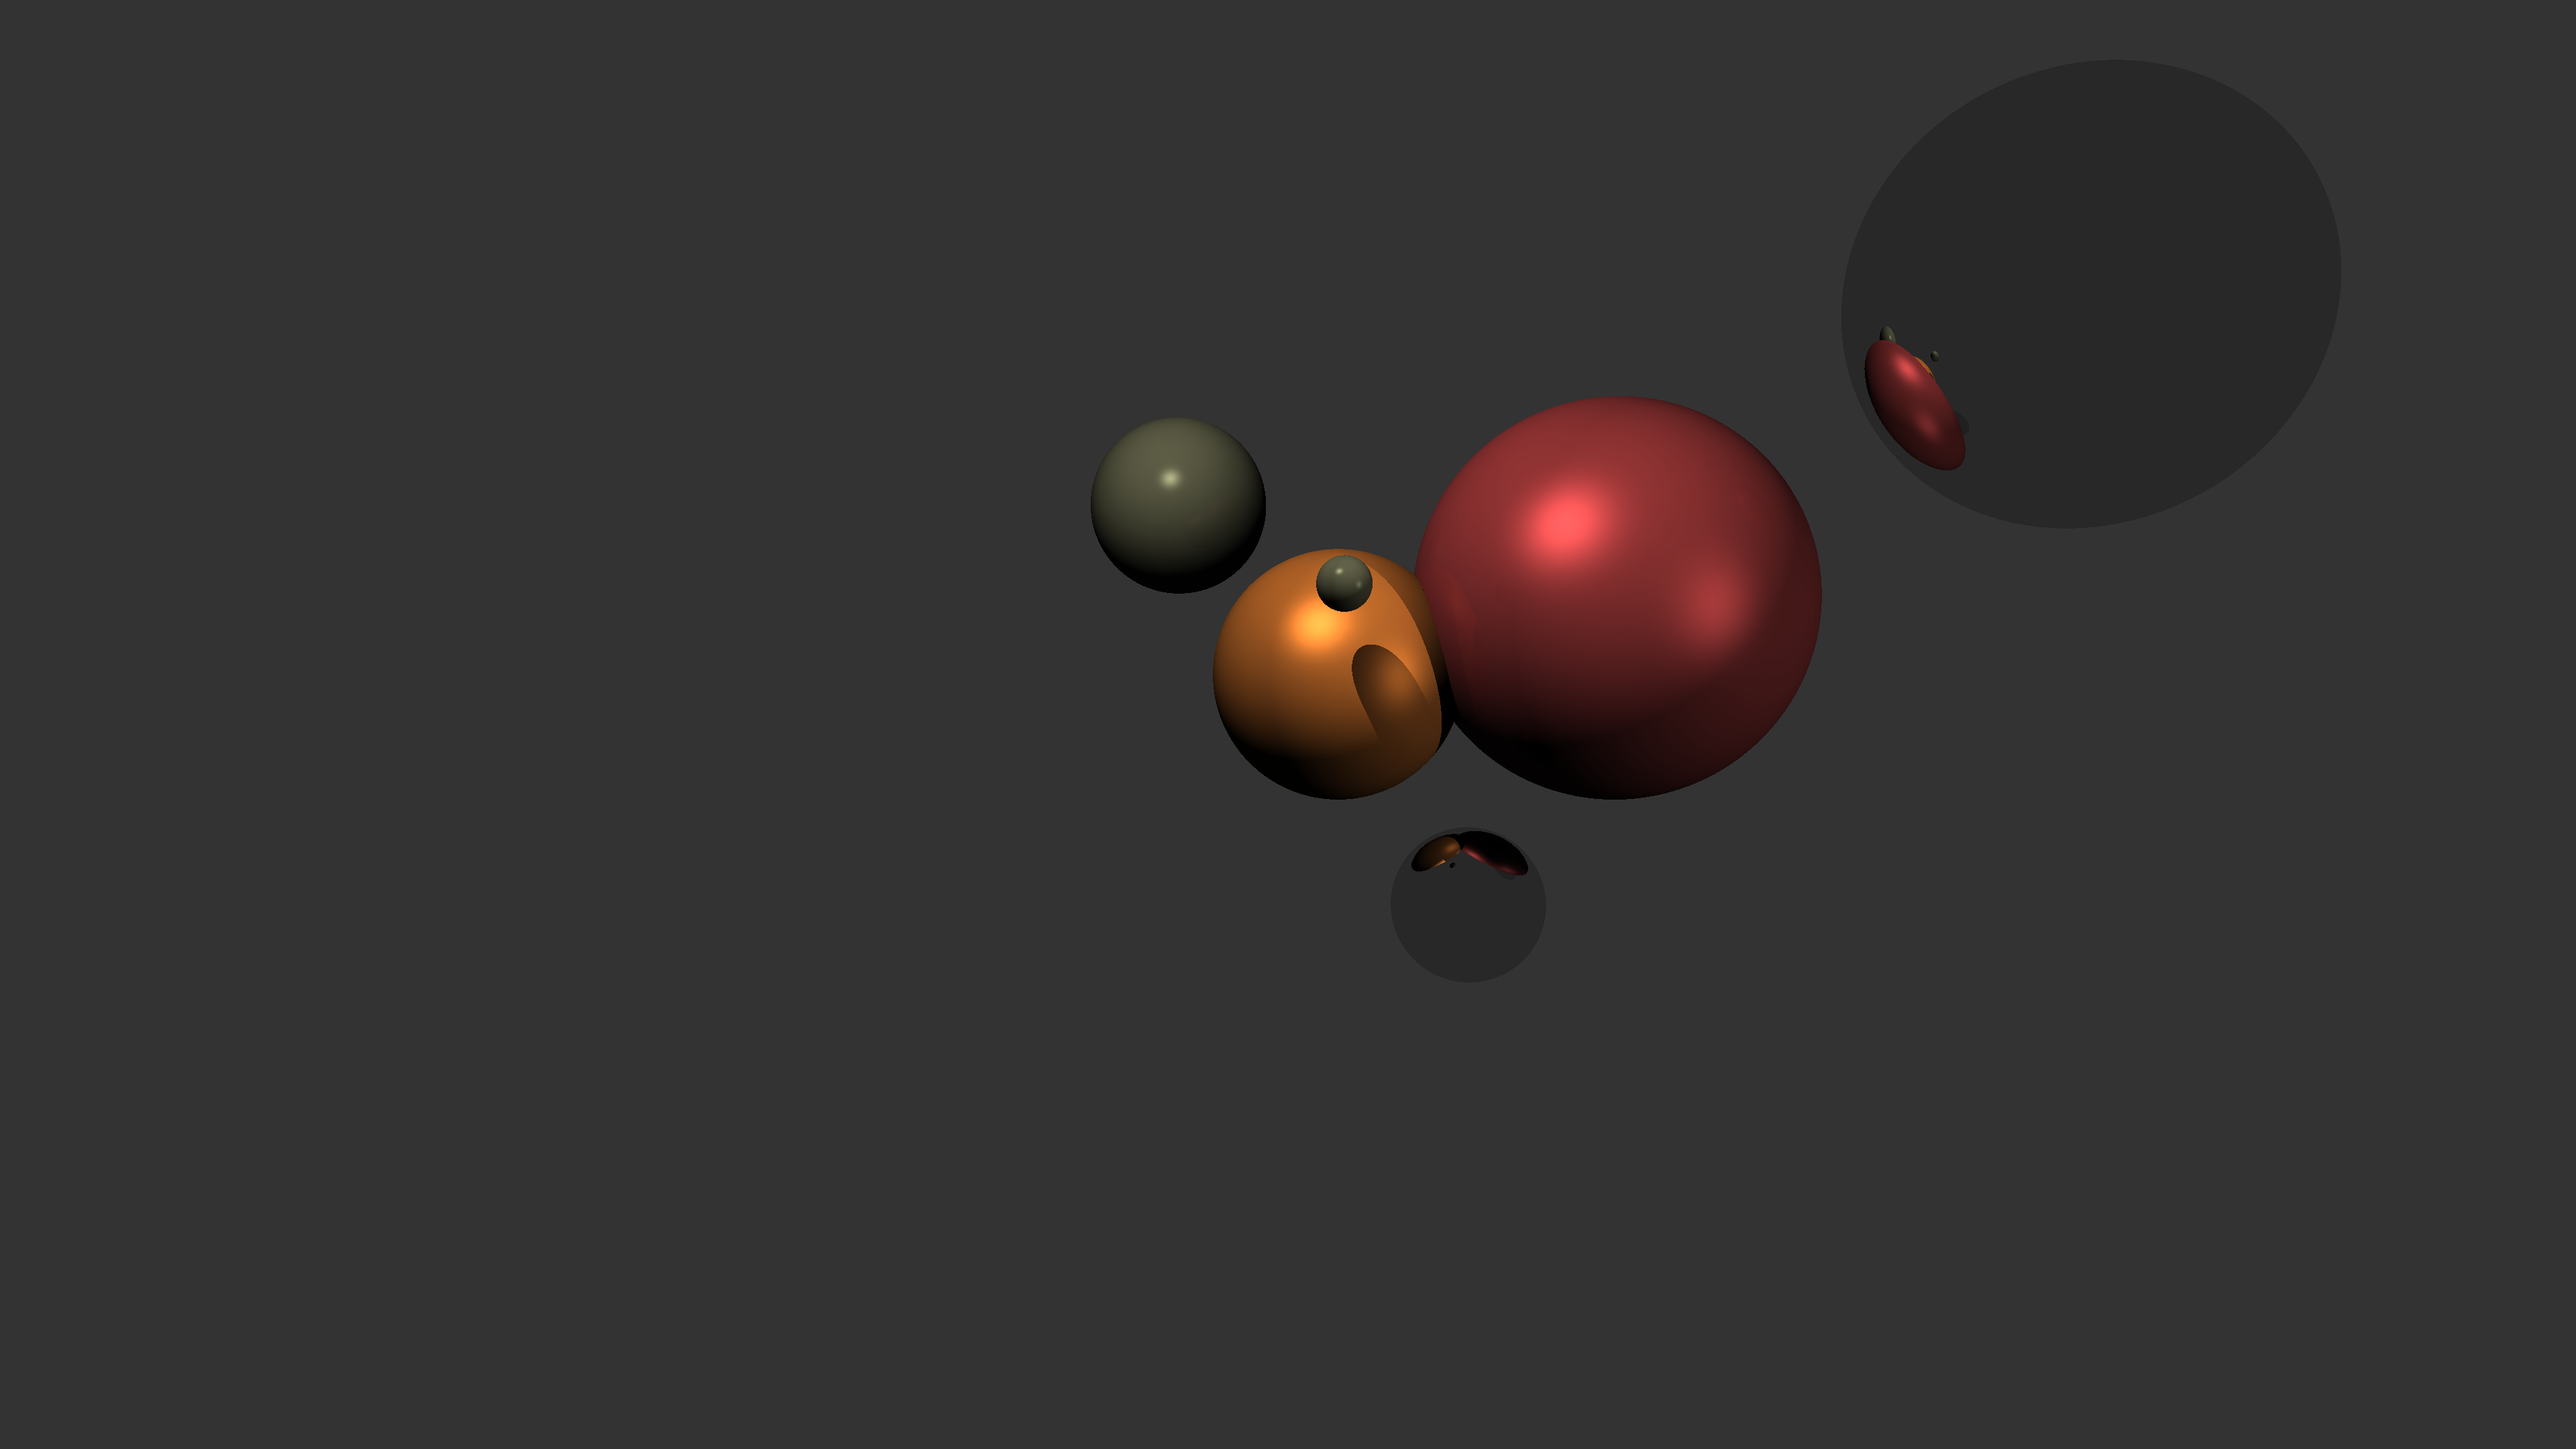
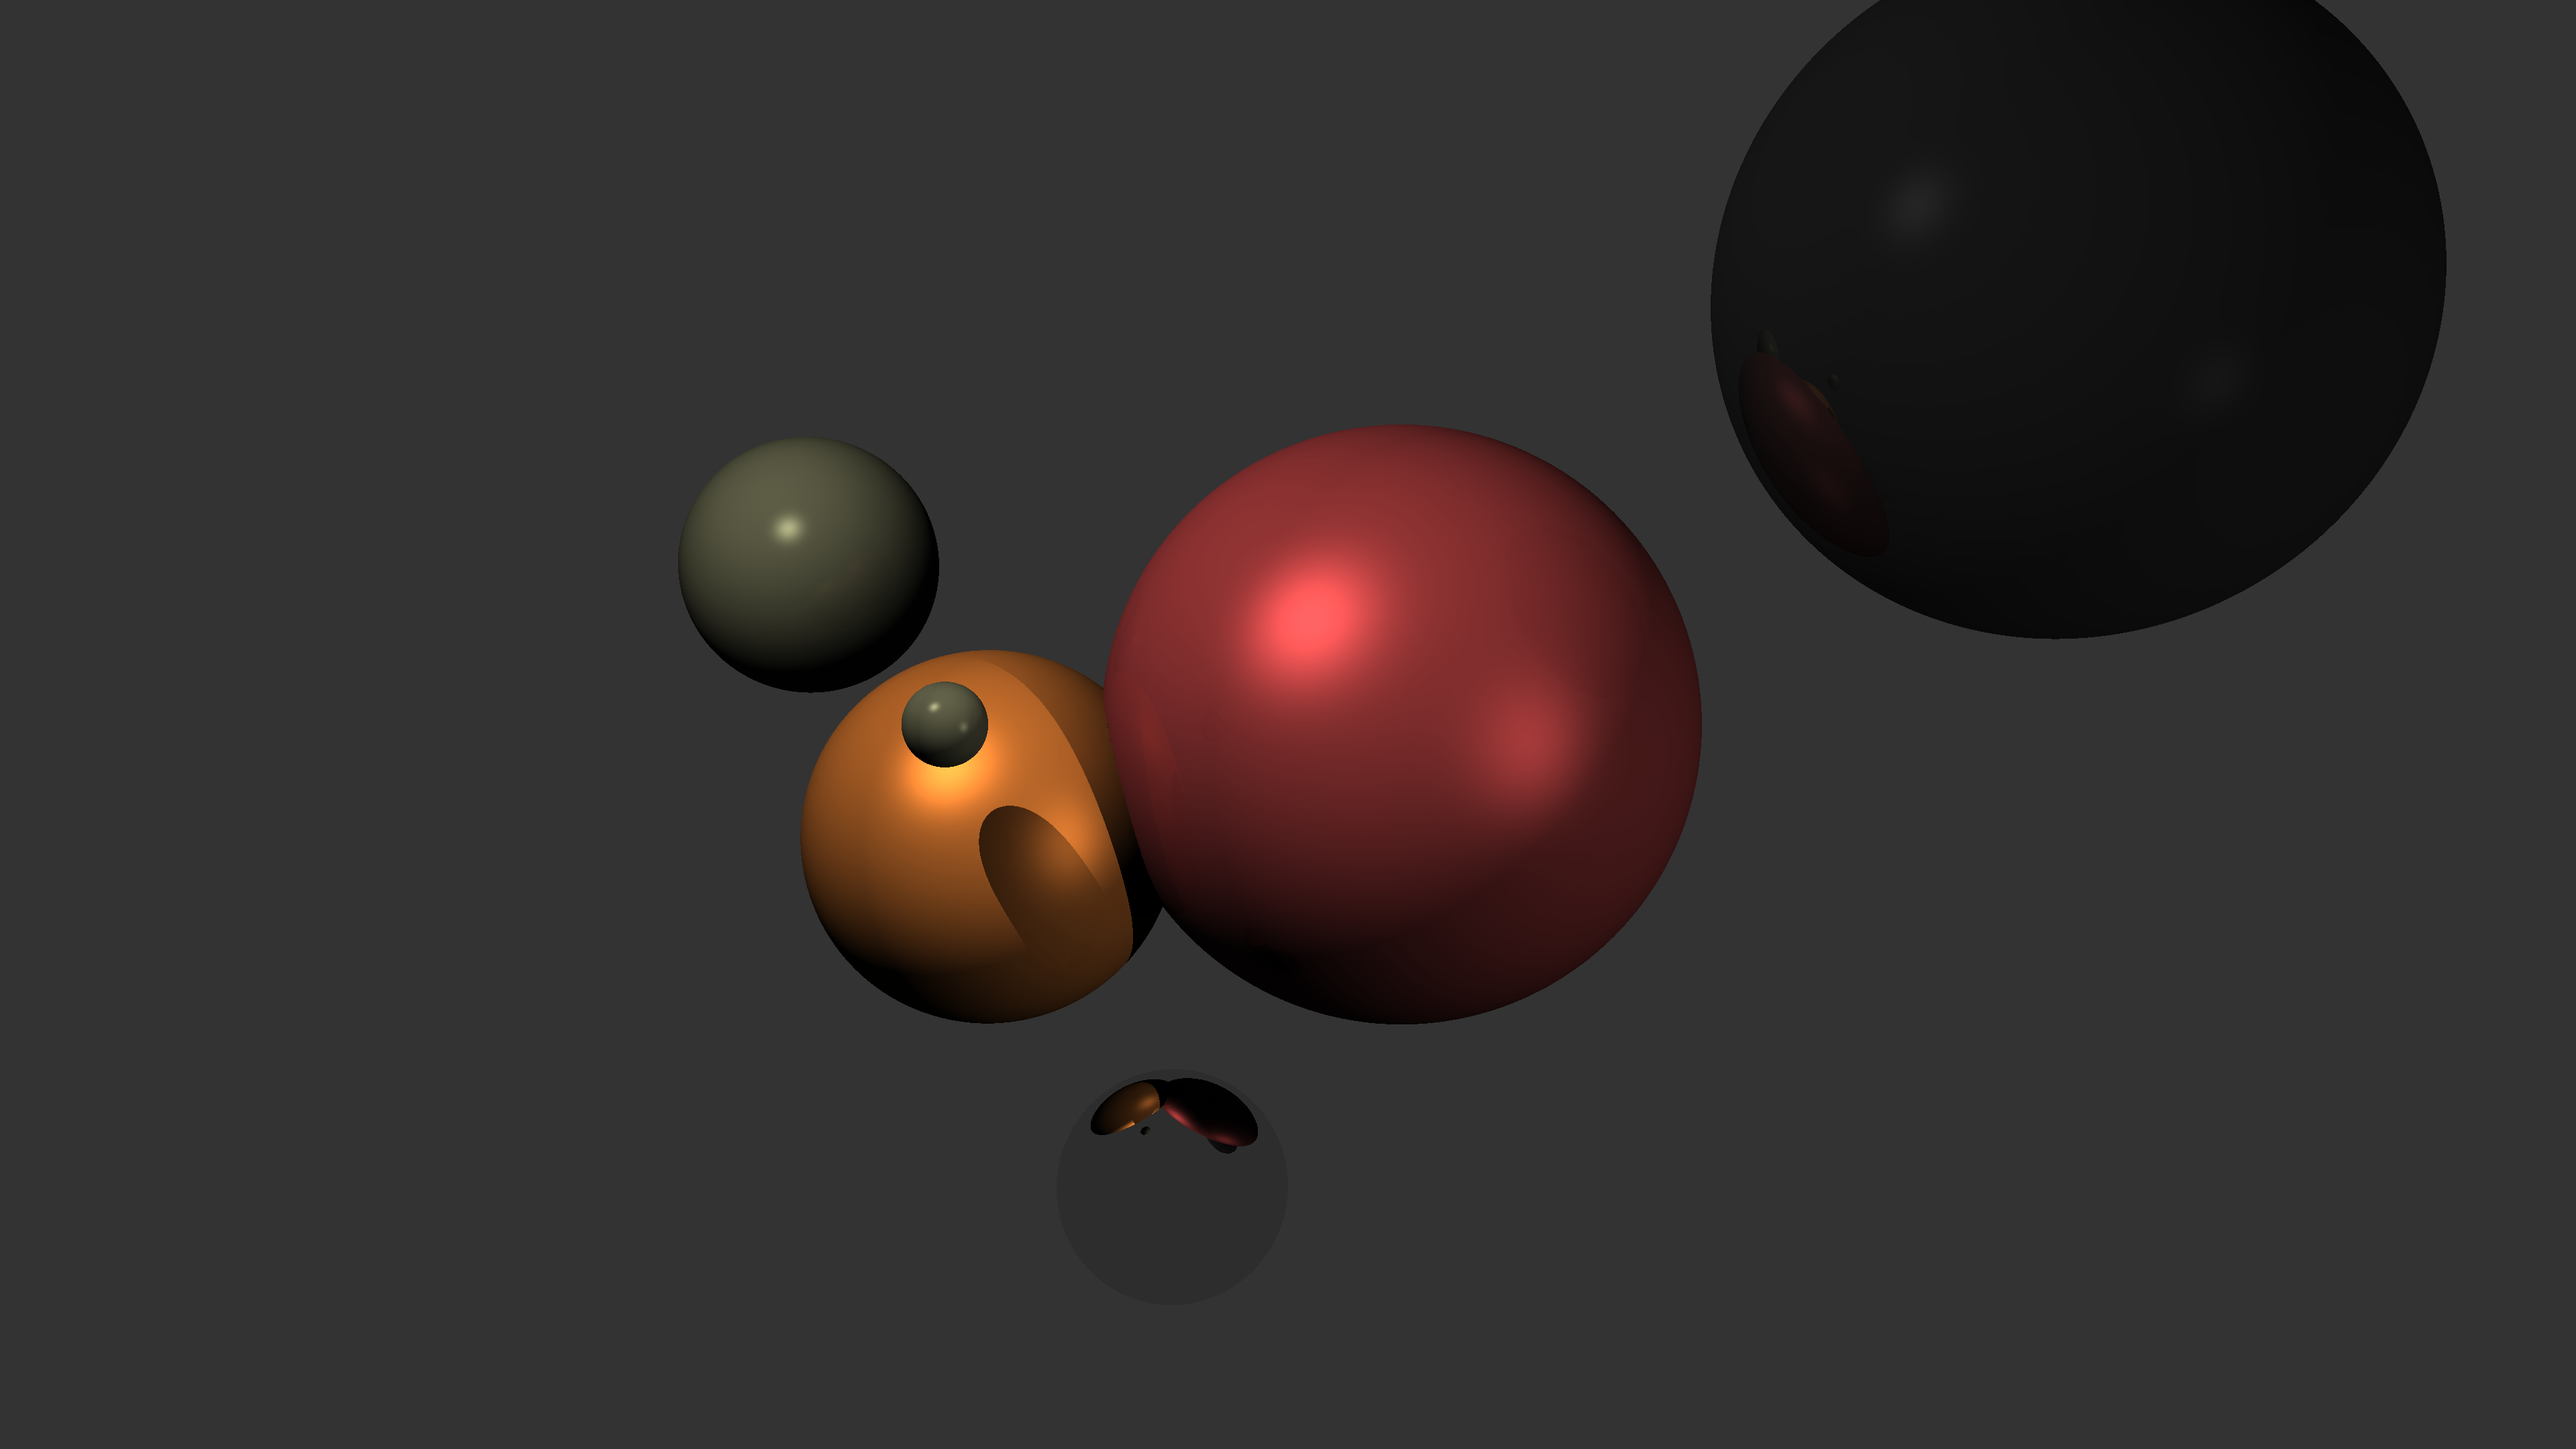
updated scene

Changed region(s): [[0.25, 0.0, 0.9688, 0.7134], [0.4062, 0.7444, 0.5, 0.8065]]

diff --git a/main.go b/main.go
@@ -16,7 +16,8 @@ var (
 	matIvory = material{vector{0.24, 0.24, 0.18}, vector{0.03, 0.03, 0.03}, 50}
 	matRedMetal = material{vector{0.37, 0.13, 0.13}, vector{0.06, 0.03, 0.03},  10}
 	matOrangeMetal = material{vector{0.45, 0.25, 0.1}, vector{0.03, 0.02, 0.01}, 10}
-	matMirror = material{vector{0, 0, 0}, vector{0.8, 0.8, 0.8}, 1000}
+	matBlackGlossy = material{vector{0.04, 0.04, 0.04}, vector{0.15, 0.15, 0.15}, 50}
+	matMirror = material{vector{0, 0, 0}, vector{0.9, 0.9, 0.9}, 1000}
 
 	backgroundColor = vector{0.2, 0.2, 0.2}
 )
@@ -93,15 +94,15 @@ func castRay(origin, dir vector, scene []object, lights []light, depth int) vect
 }
 
 func render(img *image.RGBA) {
-	fov := math.Pi / 4.0
+	fov := math.Pi / 5.0
 	ft := math.Tan(fov/2.0)
-	camera := vector{0, 0, 50}
+	camera := vector{10, 5, 40}
 	scene := []object{
 		&sphere{5, vector{2, 2, -20}, matOrangeMetal},
 		&sphere{4, vector{-5, 10, -30}, matIvory},
 		&sphere{8, vector{13, 5, -20}, matRedMetal},
 		&sphere{1, vector{2, 5, -12}, matIvory},
-		&sphere{8, vector{28, 15, -12}, matMirror},
+		&sphere{8, vector{28, 15, -12}, matBlackGlossy},
 		&sphere{3, vector{7, -7, -18}, matMirror},
 	}
 	lights := []light{
